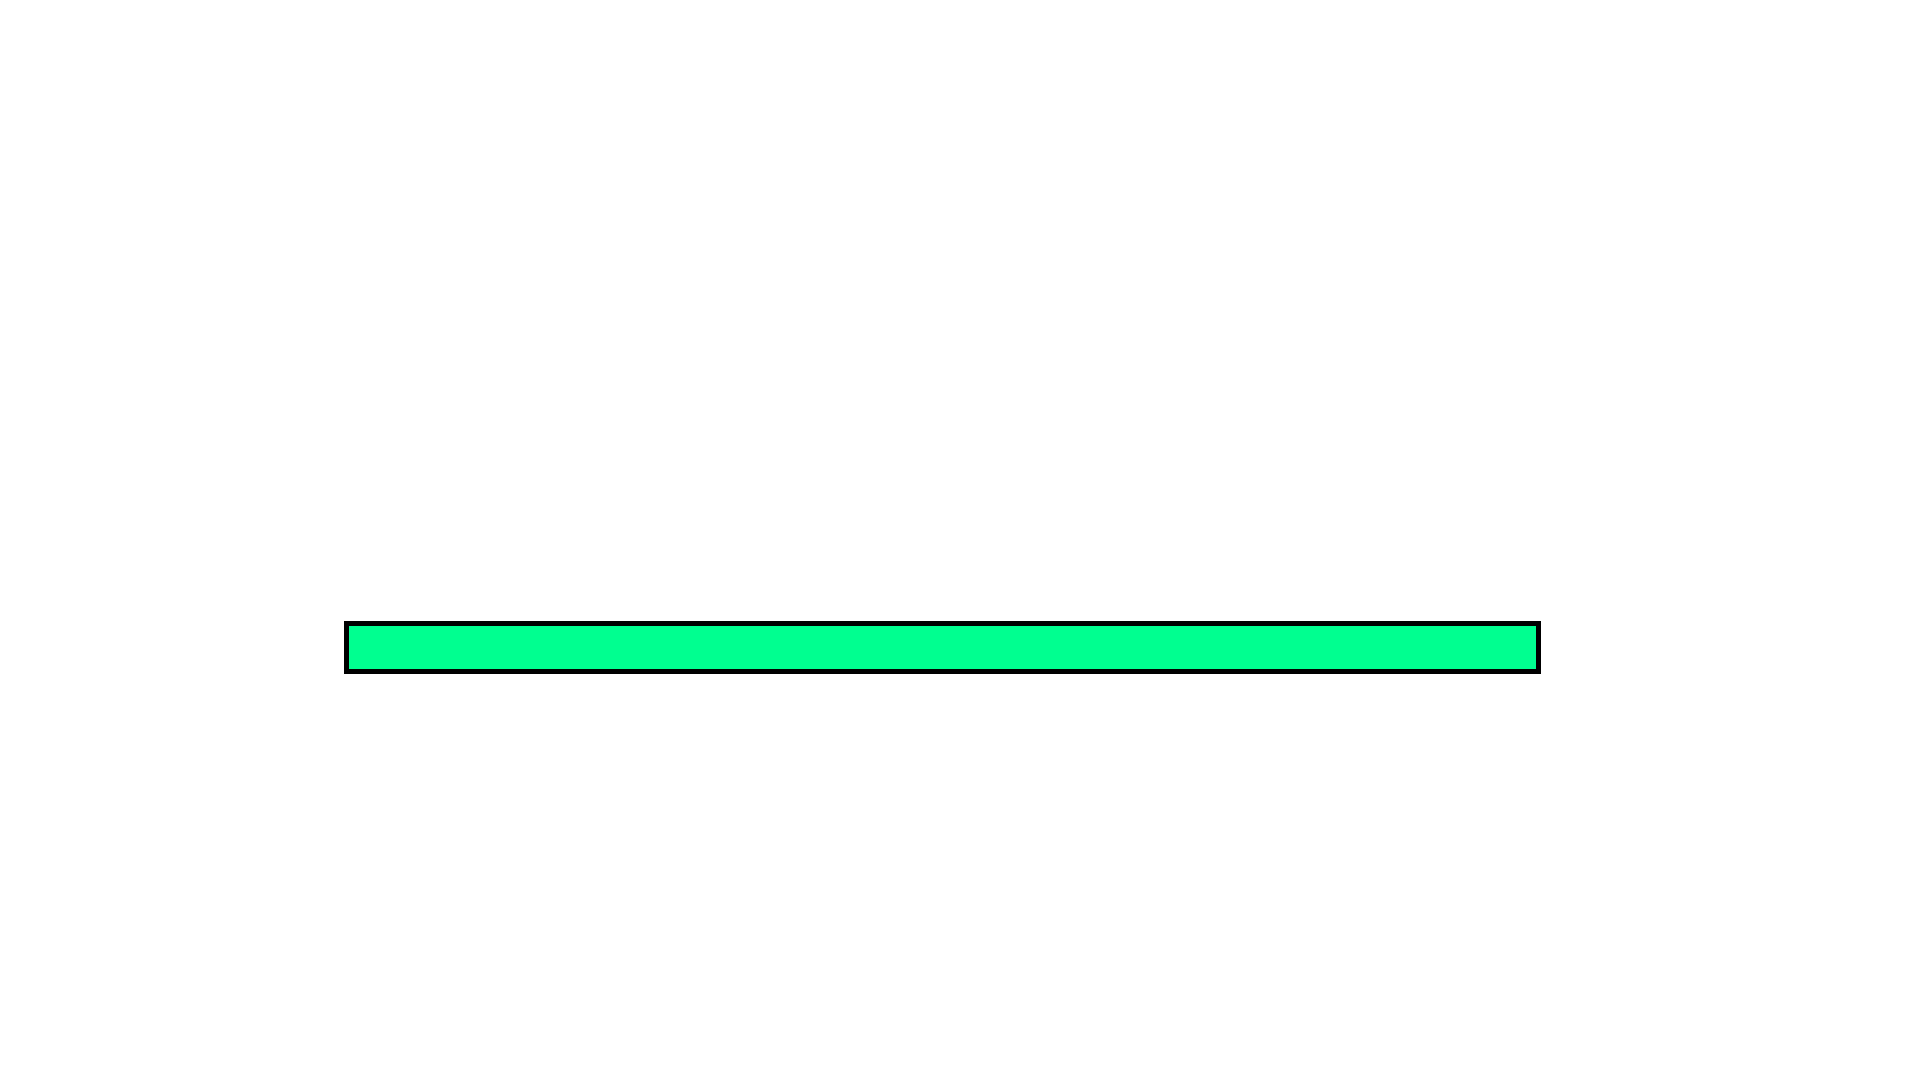
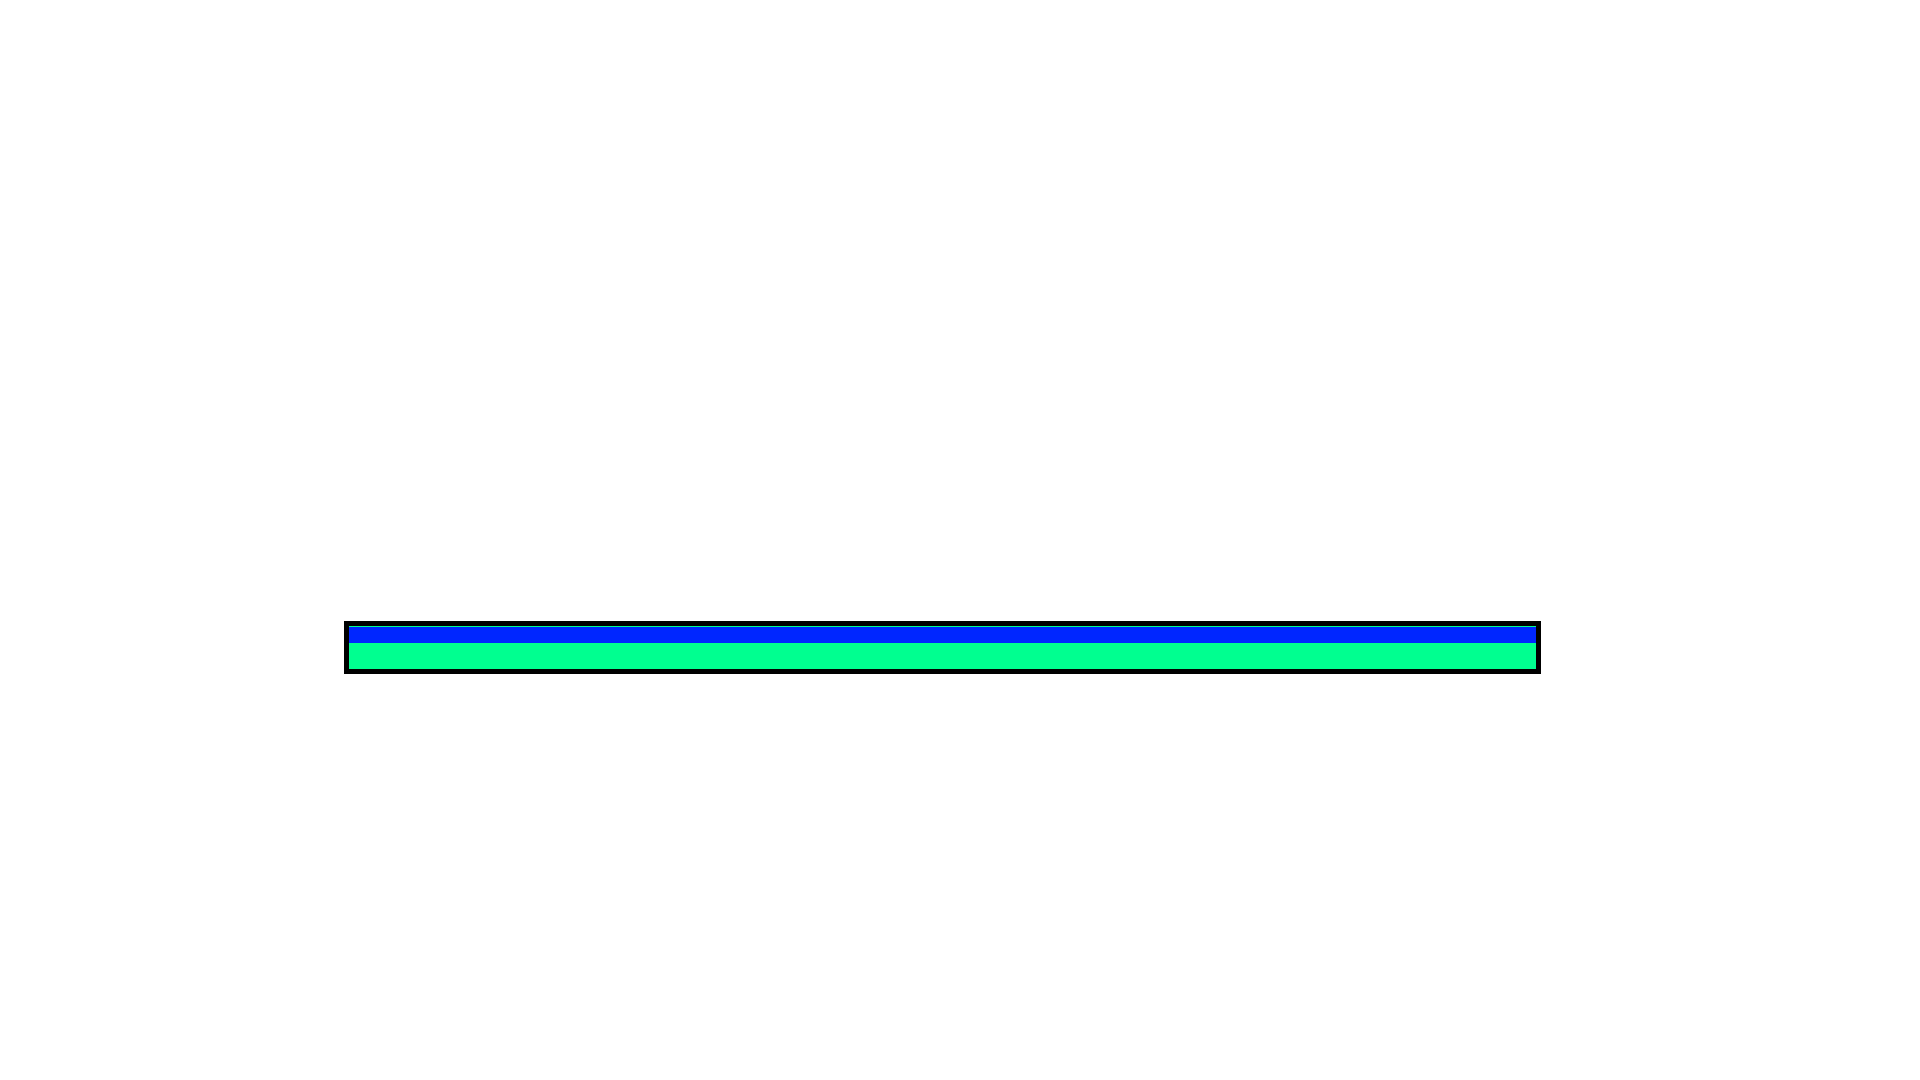
added the hanging states

Changed region(s): [[0.1875, 0.5806, 0.8125, 0.6111]]

diff --git a/core/src/com/mygdx/game/characters/Fighter.java b/core/src/com/mygdx/game/characters/Fighter.java
@@ -17,7 +17,7 @@ public class Fighter {
 
 	SpriteBatch batch;
 	private float positionX, positionY;
-	private Rectangle collisionBox;
+	private Rectangle[] collisionBoxes;
 	private ShapeRenderer shapeRenderer;
 
 	private boolean keyHoldingT;
@@ -35,7 +35,7 @@ public class Fighter {
 	private double fallingSpeed;
 
 	private Animation standingLeftAnimation, standingRightAnimation, walkingLeftAnimation, walkingRightAnimation, jumpingLeftAnimation, jumpingRightAnimation, 
-	runningLeftAnimation, runningRightAnimation;
+	runningLeftAnimation, runningRightAnimation, hangingLeftAnimation, hangingRightAnimation;
 
 	private StandingLeftState standingLeft;		//The various states that alternate in a game. Each state will be in charge of its own animation and movement pattern.
 	private StandingRightState standingRight;
@@ -55,7 +55,9 @@ public class Fighter {
 	private DoubleJumpingLeftState doubleJumpingLeft;
 	private DoubleJumpingRightState doubleJumpingRight;
 
-	private HangingState hanging;
+	private HangingLeftState hangingLeft;
+	private HangingRightState hangingRight;
+	
 	private CrouchingState crouching;
 
 	private NeutralAState neutralA;
@@ -124,7 +126,9 @@ public class Fighter {
 		doubleJumpingLeft = new DoubleJumpingLeftState();
 		doubleJumpingRight = new DoubleJumpingRightState();
 
-		hanging = new HangingState();
+		hangingLeft = new HangingLeftState();
+		hangingRight = new HangingRightState();
+		
 		crouching = new CrouchingState();
 
 		neutralA = new NeutralAState();
@@ -160,6 +164,16 @@ public class Fighter {
 		currentState = fallingRight;		//Initially the character is standing.
 		fallingSpeed = 0;
 	}
+	
+	public float getHeight()
+	{
+		return ANIMATION_HEIGHT;
+	}
+	
+	public float getWidth()
+	{
+		return ANIMATION_WIDTH;
+	}
 
 	public State getState() {
 		return currentState;
@@ -189,14 +203,16 @@ public class Fighter {
 		jumpingRightAnimation = animations[5];
 		runningLeftAnimation = animations[6];
 		runningRightAnimation = animations[7];
+		hangingLeftAnimation = animations[8];
+		hangingRightAnimation = animations[9];
 	}
 
-	public void addCollisionBoxes(Rectangle rect) {
-		this.collisionBox = rect;
+	public void addCollisionBoxes(Rectangle[] boxes) {
+		this.collisionBoxes = boxes;
 	}
 
-	public Rectangle getCollisionBox() {
-		return collisionBox;
+	public Rectangle[] getCollisionBoxes() {
+		return collisionBoxes;
 	}
 
 	public void render() {		//render calls the render method of whatever state the character is currently in.
@@ -204,14 +220,59 @@ public class Fighter {
 		update();
 		if(showBoxes) {			//Draw all the collision boxes
 			shapeRenderer.begin(ShapeType.Line);
-			shapeRenderer.rect(collisionBox.getX(), collisionBox.getY(), collisionBox.getWidth(), collisionBox.getHeight());
+			for(Rectangle r : collisionBoxes)
+			{
+				shapeRenderer.rect(r.getX(), r.getY(), r.getWidth(), r.getHeight());
+			}
 			shapeRenderer.end();
 		}
+	}
+	
+	boolean isUp = true;
+	
+	public void updateCollisionBoxes()
+	{
+		collisionBoxes[0].setPosition(positionX + ANIMATION_WIDTH*0.25f + collisionBoxes[0].getWidth(), positionY);
+		if(isHanging())
+		{
+			collisionBoxes[1].setPosition(positionX + ANIMATION_WIDTH*0.15f + collisionBoxes[0].getWidth(), positionY + ANIMATION_HEIGHT*2);
+			collisionBoxes[2].setPosition(positionX + ANIMATION_WIDTH*0.65f, positionY + ANIMATION_HEIGHT*2);
+		}
+		else if(!isHanging() && isUp)
+		{
+			collisionBoxes[1].setPosition(positionX + ANIMATION_WIDTH*0.15f + collisionBoxes[0].getWidth(), positionY + ANIMATION_HEIGHT*0.5f);
+			collisionBoxes[2].setPosition(positionX + ANIMATION_WIDTH*0.65f, positionY + ANIMATION_HEIGHT*0.5f);
+		}
+	}
+	
+	public boolean isHanging()
+	{
+		return (currentState == hangingLeft || currentState == hangingRight);
+	}
+	
+	public void hangLeft()
+	{
+		isUp = false;
+		resetCounter();
+		changeState(hangingLeft);
+	}
+	
+	public void hangRight()
+	{
+		isUp = false;
+		resetCounter();
+		changeState(hangingRight);
+	}
+	
+	public void setPosition(float x, float y)
+	{
+		positionX = x;
+		positionY = y;
 	}
 
 	public void update() {
 		counter += Gdx.graphics.getDeltaTime();
-		collisionBox.setPosition(positionX + ANIMATION_WIDTH*0.25f + collisionBox.getWidth(), positionY);
+		updateCollisionBoxes();
 
 		if(canChangeState)
 		{
@@ -410,7 +471,25 @@ public class Fighter {
 					resetFallingSpeed();
 					changeState(jumpingRight);
 				}
-			}	
+			}
+			else if(currentState == hangingLeft)
+			{
+				if(Gdx.input.isKeyPressed(SPACE_KEY))
+				{
+					resetCounter();
+					resetFallingSpeed();
+					changeState(jumpingRight);
+				}
+			}
+			else if(currentState == hangingRight)
+			{
+				if(Gdx.input.isKeyPressed(SPACE_KEY))
+				{
+					resetCounter();
+					resetFallingSpeed();
+					changeState(jumpingLeft);
+				}
+			}
 		}
 		checkKeyHoldings();
 	}
@@ -800,8 +879,9 @@ public class Fighter {
 		}
 
 		public void update() {
-			if(!capVerticalPosition)
+			if(!capVerticalPosition && counter > 0.2)
 			{
+				isUp = true;
 				canChangeState = true;
 			}
 			if(Gdx.input.isKeyPressed(LEFT_KEY)) {
@@ -837,8 +917,9 @@ public class Fighter {
 		}
 
 		public void update() {
-			if(!capVerticalPosition)
+			if(!capVerticalPosition && counter > 0.2)
 			{
+				isUp = true;
 				canChangeState = true;
 			}
 			if(Gdx.input.isKeyPressed(RIGHT_KEY)) {
@@ -935,19 +1016,47 @@ public class Fighter {
 
 	}
 	//====================================================================================================
-	private class HangingState extends State {
-		Texture image;
-		Animation animation;
-		public HangingState() {
+	private class HangingLeftState extends State {
+		TextureRegion currentFrame;
+		public HangingLeftState() {
 
 		}
 
 		public void update() {
-
+			if(counter > 0.2)
+			{
+				canChangeState = true;
+			}
+			currentFrame = hangingLeftAnimation.getKeyFrame(counter, false);
 		}
 
 		public void render() {
+			update();
+			batch.begin();
+			batch.draw(currentFrame, positionX, positionY, ANIMATION_WIDTH, ANIMATION_HEIGHT);
+			batch.end();
+		}
+	}
+	
+	private class HangingRightState extends State {
+		TextureRegion currentFrame;
+		public HangingRightState() {
 
+		}
+
+		public void update() {
+			if(counter > 0.2)
+			{
+				canChangeState = true;
+			}
+			currentFrame = hangingRightAnimation.getKeyFrame(counter, false);
+		}
+
+		public void render() {
+			update();
+			batch.begin();
+			batch.draw(currentFrame, positionX, positionY, ANIMATION_WIDTH, ANIMATION_HEIGHT);
+			batch.end();
 		}
 	}
 

diff --git a/core/src/com/mygdx/game/characters/Lonrk.java b/core/src/com/mygdx/game/characters/Lonrk.java
@@ -8,21 +8,28 @@ import com.badlogic.gdx.math.Rectangle;
 
 public class Lonrk extends Fighter{
 	
-	public static final int NUMBER_ANIMATIONS = 8;
+	public static final int NUMBER_ANIMATIONS = 10;
+	public static final int NUMBER_COLLISION_BOXES = 3;
 	
 	private Animation[] animations;
 	private Animation walkLeftAnimation, walkRightAnimation, runningLeftAnimation, runningRightAnimation, 
-		standLeftAnimation, standRightAnimation, jumpLeftAnimation, jumpRightAnimation;
+		standLeftAnimation, standRightAnimation, jumpLeftAnimation, jumpRightAnimation, hangingLeftAnimation,
+		hangingRightAnimation;
 	private Texture walkLeftSheet, walkRightSheet, runningLeftSheet, runningRightSheet, standLeftSheet, 
-		standRightSheet, jumpLeftSheet, jumpRightSheet;
+		standRightSheet, jumpLeftSheet, jumpRightSheet, hangingLeftSheet, hangingRightSheet;
 	private TextureRegion[] walkLeftFrames, walkRightFrames, runningLeftFrames, runningRightFrames, 
-		standLeftFrames, standRightFrames, jumpLeftFrames, jumpRightFrames;
-	private Rectangle collisionBox;
+		standLeftFrames, standRightFrames, jumpLeftFrames, jumpRightFrames, hangingLeftFrames,
+		hangingRightFrames;
+	private Rectangle body, hangingLeft, hangingRight;
+	private Rectangle[] rectangles;
 	
 	public Lonrk(SpriteBatch batch, float posX, float posY) {
 		super(batch, posX, posY);
 		animations = new Animation[NUMBER_ANIMATIONS];
-		collisionBox = new Rectangle();
+		body = new Rectangle();
+		hangingLeft = new Rectangle();
+		hangingRight = new Rectangle();
+		rectangles = new Rectangle[NUMBER_COLLISION_BOXES];
 		
 		walkLeftSheet = new Texture("characters/lonrk/walking_left/lonrk_walking_left_animation.png");
 		TextureRegion[][] temp1 = TextureRegion.split(walkLeftSheet, walkLeftSheet.getWidth()/8, walkLeftSheet.getHeight());
@@ -84,8 +91,32 @@ public class Lonrk extends Fighter{
 		}
 		runningRightAnimation = new Animation(0.0385f, runningRightFrames);
 		//=============================================================
-		collisionBox.setHeight(ANIMATION_HEIGHT);
-		collisionBox.setWidth(ANIMATION_WIDTH*0.16667f);
+		hangingLeftSheet = new Texture("characters/lonrk/hanging_left/hanging_left.png");
+		TextureRegion[][] temp9 = TextureRegion.split(hangingLeftSheet, hangingLeftSheet.getWidth(), hangingLeftSheet.getHeight());
+		hangingLeftFrames = new TextureRegion[1];
+		for(int i = 0; i < 1; i++) {
+			hangingLeftFrames[i] = temp9[0][i];
+		}
+		hangingLeftAnimation = new Animation(1f, hangingLeftFrames);
+		//=============================================================
+		hangingRightSheet = new Texture("characters/lonrk/hanging_right/hanging_right.png");
+		TextureRegion[][] temp10 = TextureRegion.split(hangingRightSheet, hangingRightSheet.getWidth(), hangingRightSheet.getHeight());
+		hangingRightFrames = new TextureRegion[1];
+		for(int i = 0; i < 1; i++) {
+			hangingRightFrames[i] = temp10[0][i];
+		}
+		hangingRightAnimation = new Animation(1f, hangingRightFrames);
+		//=============================================================
+		body.setHeight(ANIMATION_HEIGHT);
+		body.setWidth(ANIMATION_WIDTH*0.2f);
+		hangingLeft.setHeight(ANIMATION_HEIGHT/2);
+		hangingLeft.setWidth(ANIMATION_WIDTH/10);
+		hangingRight.setHeight(ANIMATION_HEIGHT/2);
+		hangingRight.setWidth(ANIMATION_WIDTH/10);
+		
+		rectangles[0] = body;
+		rectangles[1] = hangingLeft;
+		rectangles[2] = hangingRight;
 		
 		animations[0] = standLeftAnimation;
 		animations[1] = standRightAnimation;
@@ -95,8 +126,10 @@ public class Lonrk extends Fighter{
 		animations[5] = jumpRightAnimation;
 		animations[6] = runningLeftAnimation;
 		animations[7] = runningRightAnimation;
+		animations[8] = hangingLeftAnimation;
+		animations[9] = hangingRightAnimation;
 		
 		addAnimations(animations);
-		addCollisionBoxes(collisionBox);
+		addCollisionBoxes(rectangles);
 	}
 }

diff --git a/core/src/com/mygdx/game/screens/FightScreen.java b/core/src/com/mygdx/game/screens/FightScreen.java
@@ -74,12 +74,27 @@ public class FightScreen extends Screen{
 	
 	public void update() {
 		//updateCamera();
-		if(Intersector.overlaps(map.getCollisionBoxes()[0], characters.get(0).getCollisionBox())) {
+		if(Intersector.overlaps(map.getCollisionBoxes()[0], characters.get(0).getCollisionBoxes()[0])) 
+		{
 			characters.get(0).capVerticalPosition();
 		}
 		else {
 			characters.get(0).uncapVerticalPosition();
 		}
+		
+		if(Intersector.overlaps(map.getCollisionBoxes()[2], characters.get(0).getCollisionBoxes()[2]))
+		{
+			characters.get(0).setPosition(map.getCollisionBoxes()[0].getX() - characters.get(0).getWidth()*0.75f,
+					map.getCollisionBoxes()[0].getY() + map.getCollisionBoxes()[0].getHeight() - characters.get(0).getHeight()*0.9f);
+			characters.get(0).hangLeft();
+		}
+		if(Intersector.overlaps(map.getCollisionBoxes()[3], characters.get(0).getCollisionBoxes()[1]))
+		{
+			characters.get(0).setPosition(map.getCollisionBoxes()[0].getX() + map.getCollisionBoxes()[0].getWidth() - characters.get(0).getWidth()*0.245f,
+					map.getCollisionBoxes()[0].getY() + map.getCollisionBoxes()[0].getHeight() - characters.get(0).getHeight()*0.9f);
+			characters.get(0).hangRight();
+		}
+		
 		if(Gdx.input.isKeyPressed(31)) {
 			clear();
 			game.changeScreen(back);
